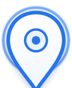
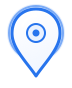
fix: preserve transparent marker silhouettes

diff --git a/miniprogram/presentation/venue-map.test.ts b/miniprogram/presentation/venue-map.test.ts
@@ -2,6 +2,7 @@
 
 import { describe, expect, test } from "@jest/globals";
 import { readFileSync } from "node:fs";
+import { inflateSync } from "node:zlib";
 
 import type { VenueMapEntry } from "../domain/venue-directory";
 import {
@@ -10,6 +11,58 @@ import {
   formatDistanceFromUser,
   toVenueMapPresentation,
 } from "./venue-map";
+
+function decodeRgbaPng(asset: Buffer): { width: number; height: number; pixels: Buffer } {
+  const width = asset.readUInt32BE(16);
+  const height = asset.readUInt32BE(20);
+  expect(asset[24]).toBe(8);
+  expect(asset[25]).toBe(6);
+  expect(asset[28]).toBe(0);
+  const idat: Buffer[] = [];
+  for (let offset = 8; offset < asset.length;) {
+    const length = asset.readUInt32BE(offset);
+    const type = asset.subarray(offset + 4, offset + 8).toString("ascii");
+    if (type === "IDAT") idat.push(asset.subarray(offset + 8, offset + 8 + length));
+    offset += length + 12;
+  }
+  const source = inflateSync(Buffer.concat(idat));
+  const stride = width * 4;
+  const pixels = Buffer.alloc(stride * height);
+  const paeth = (left: number, above: number, upperLeft: number) => {
+    const estimate = left + above - upperLeft;
+    const leftDistance = Math.abs(estimate - left);
+    const aboveDistance = Math.abs(estimate - above);
+    const upperLeftDistance = Math.abs(estimate - upperLeft);
+    if (leftDistance <= aboveDistance && leftDistance <= upperLeftDistance) return left;
+    return aboveDistance <= upperLeftDistance ? above : upperLeft;
+  };
+  for (let y = 0; y < height; y += 1) {
+    const sourceRow = y * (stride + 1);
+    const targetRow = y * stride;
+    const filter = source[sourceRow];
+    for (let x = 0; x < stride; x += 1) {
+      const raw = source[sourceRow + x + 1];
+      const left = x >= 4 ? pixels[targetRow + x - 4] : 0;
+      const above = y > 0 ? pixels[targetRow + x - stride] : 0;
+      const upperLeft = y > 0 && x >= 4 ? pixels[targetRow + x - stride - 4] : 0;
+      const predictor = filter === 0 ? 0
+        : filter === 1 ? left
+          : filter === 2 ? above
+            : filter === 3 ? Math.floor((left + above) / 2)
+              : paeth(left, above, upperLeft);
+      pixels[targetRow + x] = (raw + predictor) & 0xff;
+    }
+  }
+  return { width, height, pixels };
+}
+
+function pinShapePath(source: string): string {
+  const tag = source.match(/<path\b[^>]*\bid="pin-shape"[^>]*>/)?.[0];
+  expect(tag).toBeDefined();
+  const path = tag?.match(/\bd="([^"]+)"/)?.[1];
+  expect(path).toBeDefined();
+  return path!;
+}
 
 const online: VenueMapEntry = {
   id: "online",
@@ -162,9 +215,25 @@ test("packages four visually distinct local PNG marker states", () => {
     expect(source).toContain(`data-selected="${selected}"`);
     expect(assets[index].readUInt32BE(16)).toBe(width);
     expect(assets[index].readUInt32BE(20)).toBe(height);
+    const decoded = decodeRgbaPng(assets[index]);
+    const alphaAt = (x: number, y: number) => decoded.pixels[(y * width + x) * 4 + 3];
+    expect(decoded.pixels.some((channel, channelIndex) => channelIndex % 4 === 3 && channel === 0)).toBe(true);
+    expect([
+      alphaAt(0, 0), alphaAt(width - 1, 0),
+      alphaAt(0, height - 1), alphaAt(width - 1, height - 1),
+    ]).toEqual([0, 0, 0, 0]);
   });
 
   expect(assets.map((asset) => asset.subarray(1, 4).toString("ascii")))
     .toEqual(["PNG", "PNG", "PNG", "PNG"]);
   expect(new Set(assets.map((asset) => asset.toString("base64"))).size).toBe(4);
+});
+
+test("shares one pin silhouette between booking variants in each marker state", () => {
+  const source = (name: string) => readFileSync(`artifacts/ui/sources/map-markers/${name}.svg`, "utf8");
+
+  expect(pinShapePath(source("map-marker-online")))
+    .toBe(pinShapePath(source("map-marker-directory")));
+  expect(pinShapePath(source("map-marker-online-selected")))
+    .toBe(pinShapePath(source("map-marker-directory-selected")));
 });
